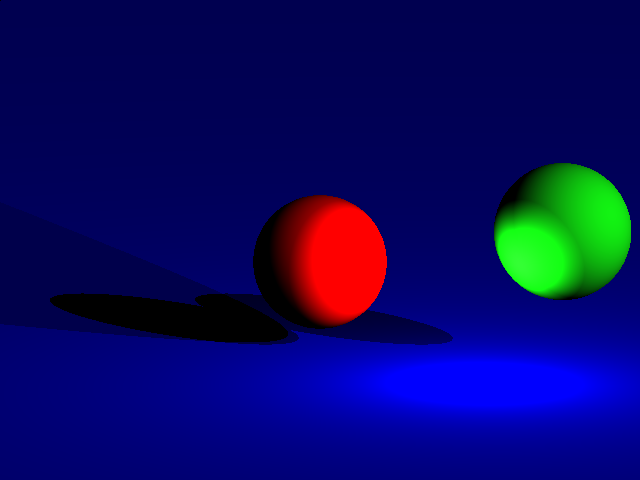
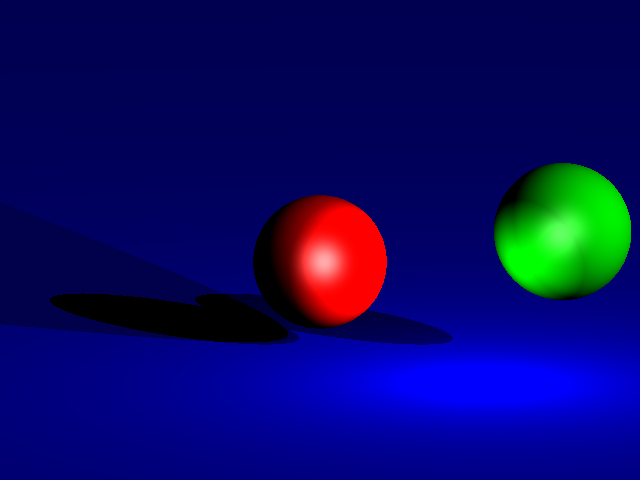
Added specular-diffuse material

Changed region(s): [[0.75, 0.4375, 0.9375, 0.625], [0.4375, 0.4688, 0.5625, 0.625]]

diff --git a/src/materials.rs b/src/materials.rs
@@ -1,7 +1,7 @@
 use crate::{math::{Vec3, Ray}, surface::{Scene, HitInfo}, color::Color, light::SceneLights, INV_PI};
 
 pub trait Material {
-    fn calc_mat(&self, hit_position: Vec3, hit_normal: Vec3, scene: &Scene, lights: Option<&SceneLights>, bounce_count: usize) -> Option<HitInfo>;
+    fn calc_mat(&self, prev_ray: &Ray, hit_position: Vec3, hit_normal: Vec3, scene: &Scene, lights: Option<&SceneLights>, bounce_count: usize) -> Option<HitInfo>;
 
     fn trace_shadow(&self, ray: &Ray, scene: &Scene, light_dist: f64) -> bool {
         for surface in scene {
@@ -24,7 +24,7 @@ impl AlbedoMaterial {
 }
 
 impl Material for AlbedoMaterial {
-    fn calc_mat(&self, hit_position: Vec3, hit_normal: Vec3, scene: &Scene, lights: Option<&SceneLights>, bounce_count: usize) -> Option<HitInfo> {
+    fn calc_mat(&self, prev_ray: &Ray, hit_position: Vec3, hit_normal: Vec3, scene: &Scene, lights: Option<&SceneLights>, bounce_count: usize) -> Option<HitInfo> {
         if let Some(lights) = lights {
             let mut color = self.color;
             for light in lights {
@@ -44,20 +44,20 @@ impl Material for AlbedoMaterial {
 
 pub struct DiffuseMaterial {
     color: Color,
-    diffusion: f64,
+    diffuse_coeff: f64,
 }
 
 impl DiffuseMaterial {
-    pub fn new(color: Color, diffusion: f64,) -> Self {
+    pub fn new(color: Color, diffuse_coeff: f64) -> Self {
         Self { 
             color,
-            diffusion,
+            diffuse_coeff,
         }
     }
 }
 
 impl Material for DiffuseMaterial {
-    fn calc_mat(&self, hit_position: Vec3, hit_normal: Vec3, scene: &Scene, lights: Option<&SceneLights>, bounce_count: usize) -> Option<HitInfo> {
+    fn calc_mat(&self, prev_ray: &Ray, hit_position: Vec3, hit_normal: Vec3, scene: &Scene, lights: Option<&SceneLights>, bounce_count: usize) -> Option<HitInfo> {
         let mut color: Color = 0.into();
 
         if let Some(lights) = lights {
@@ -69,8 +69,62 @@ impl Material for DiffuseMaterial {
                 if normal_dot_light > 0.0 && !self.trace_shadow(
                     &Ray::new(hit_position, dir), scene, light.dist_to(hit_position)
                 ) {
-                    let diffusion = self.diffusion * normal_dot_light * INV_PI;
+                    let diffusion = self.diffuse_coeff * normal_dot_light * INV_PI;
                     color = color + self.color * light.color(hit_position, hit_normal) * diffusion;
+                }
+            }
+        } else {
+            color = self.color;
+        }
+
+        Some(HitInfo::new(hit_position, hit_normal).tint(color))
+    }
+}
+
+pub struct SDMaterial {
+    color: Color,
+    diffuse_coeff: f64,
+    specular_coeff: f64,
+    exponent: f64,
+}
+
+impl SDMaterial {
+    pub fn new(color: Color, diffuse_coeff: f64, specular_coeff: f64, exponent: f64) -> Self {
+        Self { 
+            color,
+            diffuse_coeff,
+            specular_coeff,
+            exponent,
+        }
+    }
+}
+
+impl Material for SDMaterial {
+    fn calc_mat(&self, prev_ray: &Ray, hit_position: Vec3, hit_normal: Vec3, scene: &Scene, lights: Option<&SceneLights>, bounce_count: usize) -> Option<HitInfo> {
+        let mut color: Color = [0, 0, 0].into();
+
+        let mut reflection_dir = hit_normal;
+        reflection_dir *= -2.0 * (prev_ray.direction * hit_normal);
+        reflection_dir += prev_ray.direction;
+        reflection_dir = reflection_dir.normalize();
+
+        if let Some(lights) = lights {
+            for light in lights {
+                let dir = light.direction(hit_position);
+
+                let normal_dot_light = hit_normal * dir;
+
+                if normal_dot_light > 0.0 && !self.trace_shadow(
+                    &Ray::new(hit_position, dir), scene, light.dist_to(hit_position)
+                ) {
+                    let diffusion = self.diffuse_coeff * normal_dot_light * INV_PI;
+                    color = color + self.color * light.color(hit_position, hit_normal) * diffusion;
+
+                    let reflection_dot_ray = -(reflection_dir * prev_ray.direction);
+                    if reflection_dot_ray > 0.0 {
+                        let spec = self.specular_coeff * normal_dot_light * reflection_dot_ray.powf(self.exponent);
+                        color = color + light.color(hit_position, hit_normal) * spec;
+                    }
                 }
             }
         } else {

diff --git a/src/camera.rs b/src/camera.rs
@@ -1,8 +1,6 @@
-use std::{path::Iter, io};
+use image::{ImageFormat, ImageError};
 
-use image::{ImageFormat, Rgb, ImageError};
-
-use crate::{math::{Vec3, Ray}, surface::{Surface, Scene, HitInfo}, light::SceneLights, color::Color};
+use crate::{math::{Vec3, Ray}, surface::{Scene}, light::SceneLights, color::Color};
 
 pub struct Camera {
     eye: Vec3,
@@ -34,14 +32,14 @@ impl Camera {
         let factor_u = (x as f64 + 0.5) * (screen.real.0 / (screen.width as f64)) - 0.5 * screen.real.0;
         let factor_v = 0.5 * screen.real.1 - (y as f64 + 0.5) * (screen.real.1 / (screen.height as f64)); 
 
-        Ray {
-            origin: self.eye,
-            direction: Vec3::linear_combine(
+        Ray::new(
+            self.eye,
+            Vec3::linear_combine(
                 factor_u, &self.u, 
                 factor_v, &self.v, 
                 -self.screen_dist, &self.w
-            ),
-        }
+            )
+        )
     }
 
     pub fn trace(&self, ray: Ray, scene: &Scene, lights: Option<&SceneLights>, bounce_count: usize) -> [u8; 3] {
@@ -87,15 +85,15 @@ pub struct Screen {
 }
 
 impl Screen {
-    pub fn new(width: usize, height: usize, realWidth: f64, realHeight: f64) -> Self {
-        Self { real: (realWidth, realHeight), width, height, pixels: Self::init_screen(width, height), current: (0, 0) }
+    pub fn new(width: usize, height: usize, real_width: f64, real_height: f64) -> Self {
+        Self { real: (real_width, real_height), width, height, pixels: Self::init_screen(width, height), current: (0, 0) }
     }
 
     fn init_screen(width: usize, height: usize) -> Vec<Vec<[u8; 3]>> {
         let mut res = Vec::with_capacity(width);
         for x in 0..width {
             res.push(Vec::with_capacity(height));
-            for y in 0..height {
+            for _ in 0..height {
                 res[x].push([0, 0, 0])
             }
         }

diff --git a/examples/06specular.rs b/examples/06specular.rs
@@ -1,4 +1,4 @@
-use raytracer::{camera::{Camera, Screen}, surface::Scene, meshes::{Plane, Sphere}, materials::{DiffuseMaterial}, light::{SceneLights, DirectionalLight, PointLight}};
+use raytracer::{camera::{Camera, Screen}, surface::Scene, meshes::{Plane, Sphere}, materials::{SDMaterial}, light::{SceneLights, DirectionalLight, PointLight}};
 
 fn main() {
     let camera = Camera::new(
@@ -12,25 +12,25 @@ fn main() {
     let mut lights: SceneLights = Vec::new();
 
     scene.push(Box::new(Plane::new(
-        Box::new(DiffuseMaterial::new([0, 0, 255].into(), 0.5)),
+        Box::new(SDMaterial::new([0, 0, 255].into(), 0.5, 0.2, 10.0)),
         (0.0, 0.0, 0.0).into(),
         (0.0, 0.0, 1.0).into(),
     )));
 
     scene.push(Box::new(Sphere::new(
-        Box::new(DiffuseMaterial::new([255, 0, 0].into(), 0.6)),
+        Box::new(SDMaterial::new([255, 0, 0].into(), 0.6, 0.1, 5.0)),
         (0.0, 0.0, 4.0).into(),
         3.0,
     )));
 
     scene.push(Box::new(Sphere::new(
-        Box::new(DiffuseMaterial::new([20, 255, 20].into(), 0.6)),
+        Box::new(SDMaterial::new([0, 255, 0].into(), 0.6, 0.1, 5.0)),
         (-5.0, 10.0, 6.0).into(),
         3.0,
     )));
 
-    lights.push(Box::new(PointLight::new((0.0, 10.0, 4.0).into(), [255, 255, 255].into(), 5.0)));
-    lights.push(Box::new(PointLight::new((0.0, 10.0, 4.0).into(), [255, 255, 255].into(), 50.0).with_falloff()));
+    lights.push(Box::new(PointLight::new((0.0, 10.0, 4.0).into(), [255, 255, 255].into(), 6.0)));
+    //lights.push(Box::new(PointLight::new((0.0, 10.0, 4.0).into(), [255, 255, 255].into(), 50.0).with_falloff()));
     lights.push(Box::new(DirectionalLight::new((0.0, 10.0, 4.0).into(), [255, 255, 255].into(), 5.0)));
     
     let mut screen = Screen::new(640, 480, 4.0, 3.0);

diff --git a/src/math.rs b/src/math.rs
@@ -1,4 +1,4 @@
-use std::ops::{Add, Mul, Div, Sub};
+use std::ops::{Add, Mul, Div, Sub, MulAssign, AddAssign, Neg};
 
 #[derive(Debug, Clone, Copy)]
 pub struct Vec3 {
@@ -94,6 +94,29 @@ impl Mul<f64> for Vec3 {
     }
 }
 
+impl MulAssign<f64> for Vec3 {
+    fn mul_assign(&mut self, rhs: f64) {
+        self.x = self.x * rhs;
+        self.y = self.y * rhs;
+        self.z = self.z * rhs;
+    }
+}
+
+impl AddAssign<Vec3> for Vec3 {
+    fn add_assign(&mut self, rhs: Vec3) {
+        self.x = self.x + rhs.x;
+        self.y = self.y + rhs.y;
+        self.z = self.z + rhs.z;
+    }
+}
+
+impl Neg for Vec3 {
+    type Output = Vec3;
+
+    fn neg(self) -> Self::Output {
+        Vec3::new(-self.x, -self.y, -self.z)
+    }
+}
 
 impl Div<f64> for Vec3 {
     type Output = Vec3;

diff --git a/src/surface.rs b/src/surface.rs
@@ -7,7 +7,7 @@ pub trait Surface {
     fn hit(&self, ray: &Ray, scene: &Scene, lights: Option<&SceneLights>, bounce_count: usize, min_distance: f64) -> Option<HitInfo> {
         if let Some(hit) = self.surface_hit(ray, min_distance) {
             if (hit - ray.origin).mag() < min_distance {
-                return self.get_material().calc_mat(hit, self.get_normal(&hit), scene, lights, bounce_count)
+                return self.get_material().calc_mat(ray, hit, self.get_normal(&hit), scene, lights, bounce_count)
             }
         }
         None

diff --git a/examples/04pointlights.rs b/examples/04pointlights.rs
@@ -1,4 +1,4 @@
-use raytracer::{camera::{Camera, Screen}, surface::Scene, meshes::{Plane, Sphere}, materials::AlbedoMaterial, light::{SceneLights, DirectionalLight, PointLight}};
+use raytracer::{camera::{Camera, Screen}, surface::Scene, meshes::{Plane, Sphere}, materials::AlbedoMaterial, light::{SceneLights, PointLight}};
 
 fn main() {
     let camera = Camera::new(

diff --git a/src/light.rs b/src/light.rs
@@ -1,4 +1,4 @@
-use crate::{surface::HitInfo, math::Vec3, color::Color};
+use crate::{math::Vec3, color::Color};
 
 pub type SceneLights = Vec<Box<dyn Light>>;
 pub static EPSILON: f64 = 0.02;
